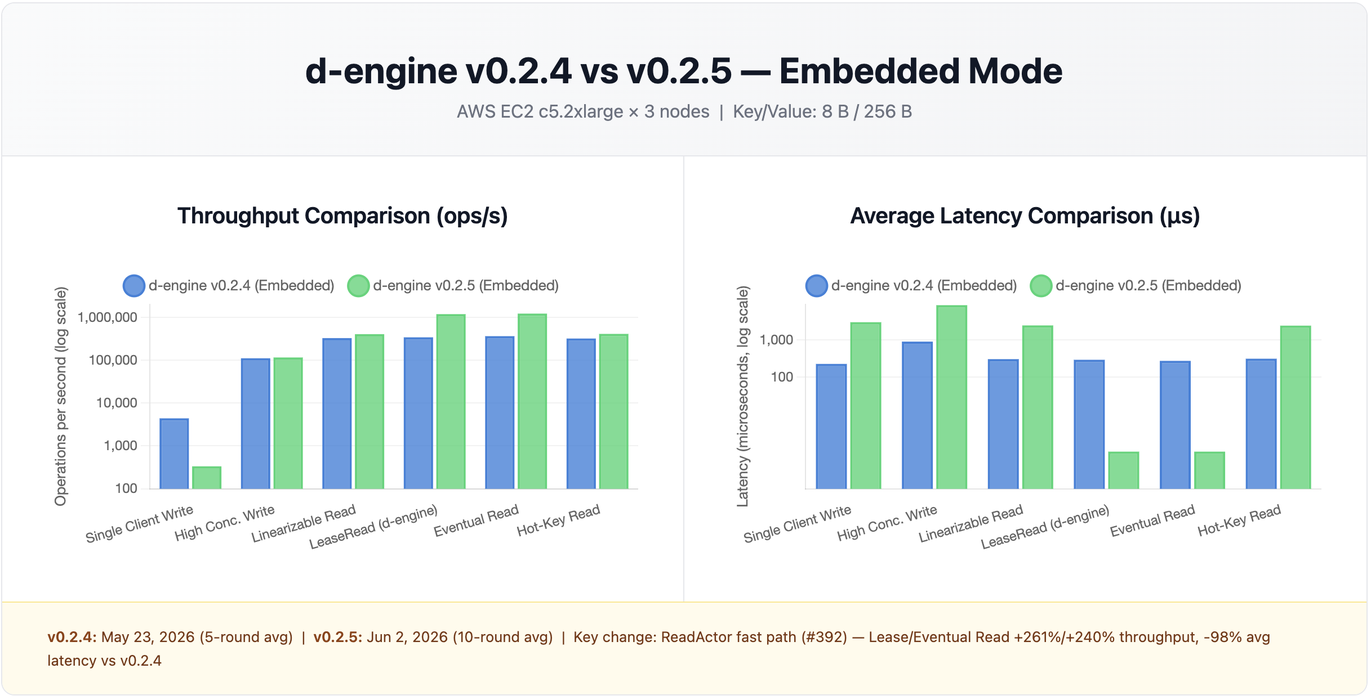
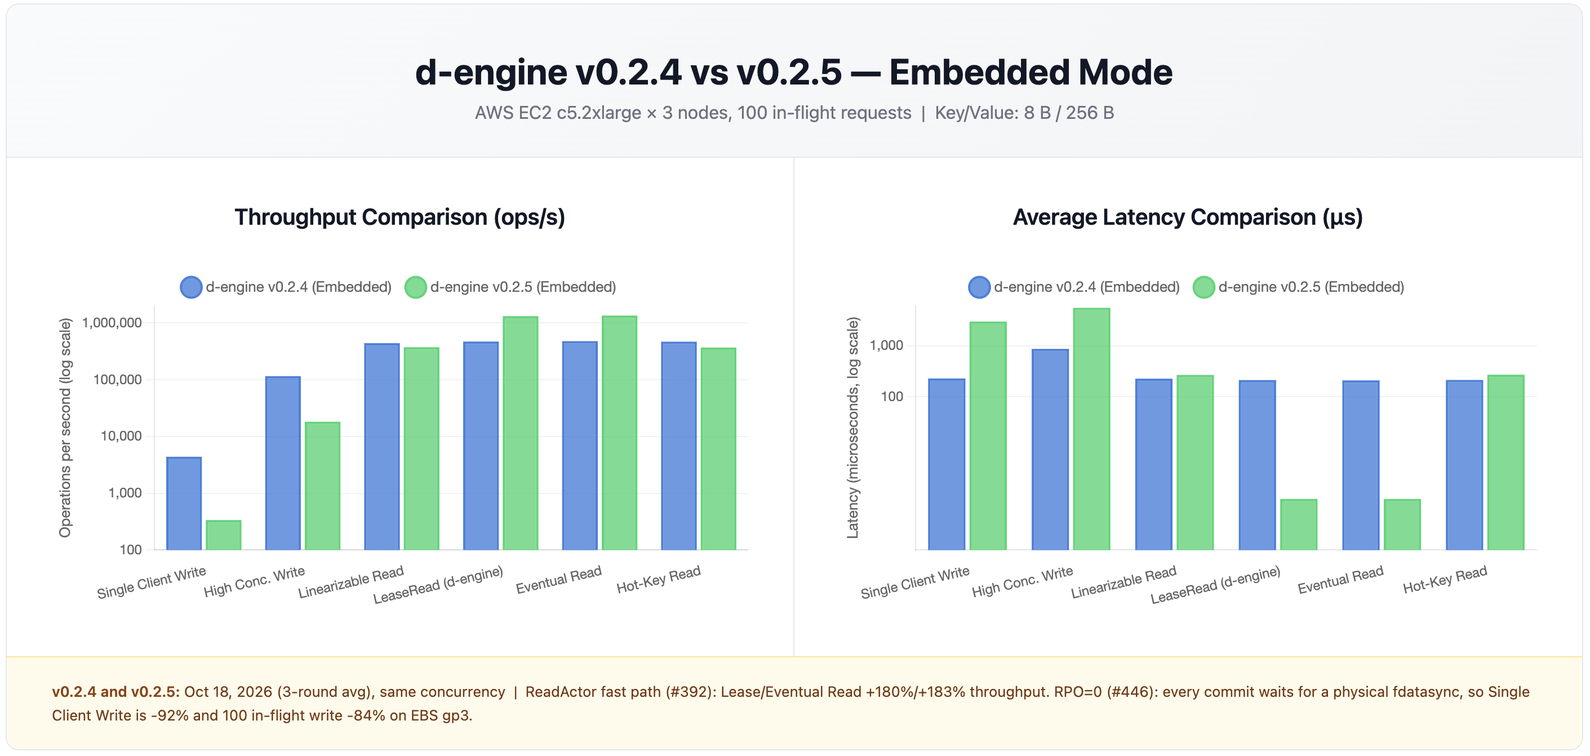
docs #460: Rewrite v0.2.5 benchmark report
Recompare v0.2.4 and v0.2.5 at the same concurrency and add an
etcd v3.7.2 comparison on identical AWS nodes. Record the per-commit
fdatasync cost that motivates the preallocated-segment spike.

diff --git a/benches/reports/v0.2.5/bench_report_v0.2.5.md b/benches/reports/v0.2.5/bench_report_v0.2.5.md
@@ -1,109 +1,88 @@
 # d-engine v0.2.5 Benchmark Report
 
-**Test Environments**:
+**Date**: October 18, 2026 | **Platform**: AWS us-east-1, 3 x c5.2xlarge nodes + 1 x c5.4xlarge client, 50 GB gp3 root volume (3,000 IOPS, 125 MB/s) | 3-round means | 8 B keys, 256 B values
 
-- **AWS**: EC2 c5.2xlarge (8 vCPUs, 16GB RAM, 50GB SSD) × 3 nodes
-- **Key/Value**: 8 bytes / 256 bytes
+Details: [`bench_report_v0.2.5_environment.md`](bench_report_v0.2.5_environment.md) (exact setup, commands, configuration) and [`bench_report_v0.2.5_details.md`](bench_report_v0.2.5_details.md) (every number, spreads, p99).
 
----
+> This report replaces the September 26, 2026 draft. That draft compared v0.2.4 at 100 clients with v0.2.5 at 1,000 clients, and compared d-engine with etcd 3.2.0 numbers measured on Google Cloud in 2017. Its latency and "vs etcd" conclusions did not hold and are withdrawn.
 
-![d-engine v0.2.5 vs v0.2.4 Embedded Mode](d-engine_v0.2.5_vs_v0.2.4_embedded_mode.png)
+## Summary
 
-![d-engine v0.2.5 vs v0.2.4 Standalone Mode](d-engine_v0.2.5_vs_v0.2.4_standalone_mode.png)
+1. **v0.2.5 makes every commit wait for a physical `fdatasync` (RPO=0, #446), and on AWS EBS that costs one disk sync per commit.** At the same concurrency, single-client write falls from 4,393 to 337 ops/s (avg latency 0.228 to 2.962 ms) and 100-in-flight embedded write from 115,641 to 18,198 ops/s (0.864 to 5.494 ms). The added latency is close to one append `fdatasync` measured with fio on the same volume type (2.71 ms): 0.228 + 2.71 = 2.94 ms against 2.96 ms measured.
+2. **Reads are mostly unaffected or faster.** In embedded mode lease and eventual reads are 2.8x faster (ReadActor, #392); in standalone mode they gain 14.5% and 6.4%. Linearizable read is 15% lower in embedded mode and 3.3% lower in standalone mode (within noise; the v0.2.4 value is one round).
+3. **Against etcd v3.7.2 on the same AWS nodes (standalone mode), d-engine is ahead at concurrency and behind with one client.** 200 in-flight writes: 32,068 vs 17,143 ops/s (1.87x). Single-client write: 312 vs 605 ops/s (d-engine at 0.52x). Linearizable read at 200 in-flight: 0.91x; eventual read against etcd's serializable read: 1.48x. In embedded mode (in-process calls, no network hop) at 100 in-flight: write 1.81x, linearizable read 5.83x, eventual read 9.08x; single-client write is again behind, at 0.56x.
+4. **etcd's single-client write is faster because its WAL sync is cheaper: 1.05 ms per sync in etcd's own metrics, against about 2.7 ms for an appending write on this volume.** fio shows a preallocated overwrite costs 1.29 ms on average against 2.72 ms for an append, with about half the device writes per sync. Whether RocksDB's WAL behaves like the append case is a hypothesis we have not tested yet (see Limitations).
+5. **The cost depends on the disk.** On a local RAM disk (fsync about 0.05 ms) the same change adds only 35% to write latency. Numbers from RAM disks must not be used to judge the cost on EBS.
 
-![d-engine v0.2.5 vs etcd 3.2.0](d-engine_comparison_v0.2.5.png)
+![d-engine v0.2.4 vs v0.2.5, Embedded Mode, 100 in-flight](d-engine_v0.2.5_vs_v0.2.4_embedded_mode.png)
 
-## AWS 3-Node Cluster: d-engine v0.2.5 vs v0.2.4 / etcd 3.2.0
+![d-engine v0.2.4 vs v0.2.5, Standalone Mode, 200 in-flight](d-engine_v0.2.5_vs_v0.2.4_standalone_mode.png)
 
-**Hardware**: AWS EC2 c5.2xlarge (8 vCPUs, 16GB RAM, 50GB SSD) × 3 nodes
-**Date**: September 26, 2026 | 3-round average | Key/Value: 8 bytes / 256 bytes
-**Embedded mode concurrency**: `--clients 1000` (previously omitted from the AWS harness — see Benchmark Configuration note below)
-**etcd reference**: Official etcd benchmark (GCE, 8 vCPUs + 16GB + SSD × 3 nodes, etcd 3.2.0)²
+![d-engine v0.2.5 (Embedded) vs etcd v3.7.2, 100 in-flight](d-engine_comparison_v0.2.5.png)
 
-> Updated 2026-09-26: this section now reflects v0.2.5 **with #446 merged**
-> (quorum commit gated on physical fsync — durable_index only advances after
-> fdatasync, per ADR-038 Level 3 / RPO=0). The June 2, 2026 numbers previously
-> here predate #446 and measured #392 (ReadActor) alone; #446 changes write-path
-> latency substantially and is reflected below.
+Charts (log scale, same data as Sections 1 and 2): v0.2.4 vs v0.2.5 in embedded mode at 100 in-flight; the same in standalone mode at 200 in-flight; d-engine v0.2.5 embedded against etcd v3.7.2 at 100 in-flight. There is no chart for standalone against etcd; that pair is in the Section 2 table.
 
-### Embedded Mode: v0.2.5 vs v0.2.4 / etcd 3.2.0
+## 1. v0.2.5 vs v0.2.4, same concurrency
 
-| **Scenario**        | **Metric**  | **v0.2.4 (AWS)** | **v0.2.5 (AWS)** | **Δ vs v0.2.4** | **etcd 3.2.0²** | **Δ vs etcd**  |
-| ------------------- | ----------- | ---------------- | ---------------- | --------------- | --------------- | -------------- |
-| Single Client Write | Throughput  | 4,398 ops/s      | 334 ops/s        | **-92.4%** ⚠   | 583 ops/s       | -42.8% ⚠      |
-|                     | Avg Latency | 0.227 ms         | 2.994 ms         | **+1219%** ⚠   | 1.6 ms          | +87.1% ⚠      |
-|                     | p99 Latency | 0.316 ms         | 3.154 ms         | **+898%** ⚠    | —               | —              |
-| High Conc. Write    | Throughput  | 110,798 ops/s    | 115,648 ops/s    | +4.4% →         | 44,341 ops/s    | **+2.6x** ✅   |
-|                     | Avg Latency | 0.902 ms         | 8.586 ms         | **+852%** ⚠    | 22.0 ms         | -61.0% ✅      |
-|                     | p99 Latency | 1.063 ms         | 12.012 ms        | **+1030%** ⚠   | —               | —              |
-| Linearizable Read   | Throughput  | 327,355 ops/s    | 404,684 ops/s    | +23.6% ✅       | 141,578 ops/s   | **+2.9x** ✅   |
-|                     | Avg Latency | 0.305 ms         | 2.454 ms         | **+705%** ⚠    | 5.5 ms          | -55.4% ✅      |
-|                     | p99 Latency | 0.374 ms         | 4.378 ms         | **+1071%** ⚠   | —               | —              |
-| Lease Read          | Throughput  | 341,254 ops/s    | 1,186,318 ops/s  | **+247.7%** ✅  | —³              | —              |
-|                     | Avg Latency | 0.293 ms         | 0.001 ms         | **-99.7%** ✅   | —               | —              |
-|                     | p99 Latency | 0.367 ms         | 0.002 ms         | **-99.5%** ✅   | —               | —              |
-| Eventual Read       | Throughput  | 363,407 ops/s    | 1,220,515 ops/s  | **+235.9%** ✅  | 185,758 ops/s   | **+6.6x** ✅   |
-|                     | Avg Latency | 0.274 ms         | 0.001 ms         | **-99.6%** ✅   | 2.2 ms          | **-99.95%** ✅ |
-|                     | p99 Latency | 0.343 ms         | 0.002 ms         | **-99.4%** ✅   | —               | —              |
-| Hot-Key (10 keys)   | Throughput  | 319,957 ops/s    | 410,173 ops/s    | +28.2% ✅       | —³              | —              |
-|                     | Avg Latency | 0.313 ms         | 2.421 ms         | **+674%** ⚠    | —               | —              |
-|                     | p99 Latency | 0.360 ms         | 4.858 ms         | **+1249%** ⚠   | —               | —              |
+Embedded mode, 100 in-flight requests (single client: 1). Cells are ops/s (average latency).
 
-**Key Findings**:
+| Scenario               | v0.2.4             | v0.2.5               | Throughput |
+| ---------------------- | ------------------ | -------------------- | ---------- |
+| Single client write    | 4,393 (0.228 ms)   | 337 (2.962 ms)       | -92.3%     |
+| High concurrency write | 115,641 (0.864 ms) | 18,198 (5.494 ms)    | -84.3%     |
+| Linearizable read      | 441,087 (0.226 ms) | 373,820 (0.267 ms)   | -15.3%     |
+| Lease read             | 470,786 (0.212 ms) | 1,319,390 (0.001 ms) | +180.3%    |
+| Eventual read          | 478,101 (0.209 ms) | 1,350,684 (0.001 ms) | +182.5%    |
+| Hot-key read (10 keys) | 467,864 (0.213 ms) | 369,349 (0.270 ms)   | -21.1%     |
 
-- **Single Client Write is the clearest #446 signal, and it's a regression**: throughput -92.4%, avg latency 0.227ms → 2.994ms (13x). No concurrency to amortize the cost — every request pays the full quorum-fsync round trip directly. d-engine's SC Write is now _slower_ than etcd's reference number (-42.8% throughput), reversing the previous +7.6x lead.
-- **Concurrent write/read throughput holds up (HC Write +4.4%, Lin Read +23.6%, Hot-Key +28.2%)** — with enough in-flight requests, individual fsync/replication latency overlaps instead of stacking, so aggregate throughput survives. But **every scenario's avg/p99 latency is 7-13x worse than v0.2.4**, including reads that don't touch fsync (Hot-Key avg +674%) — consistent with the write path now serializing behind real fsync+quorum-ack round trips that the old `MemFirst` config never paid.
-- **Lease/Eventual Read remain #392's win, untouched by #446** (+248%/+236% vs v0.2.4, both are pure in-memory reads with no Raft RPO=0 gating).
-- **This is a much larger cost than #446's own loopback A/B measurements** (`tickets/milestones/v0.2.5/RESULTS-main-vs-446.md`: +9.9% `propose_to_apply`, -2.1% throughput). AWS's EBS gp3 is network-attached storage — every fsync is a real network round trip, unlike loopback disk I/O. Confirms the loopback numbers understate #446's real-world cost by roughly an order of magnitude.
+Standalone mode, 200 in-flight (single client: 1). Starred cells use the one clean round of v0.2.4 (the cluster was not ready in rounds 1 and 2, so they logged timeouts).
 
----
+| Scenario               | v0.2.4              | v0.2.5             | Throughput |
+| ---------------------- | ------------------- | ------------------ | ---------- |
+| Single client write    | 2,042 (0.494 ms)    | 312 (3.204 ms)     | -84.7%     |
+| High concurrency write | 63,308* (3.155 ms)  | 32,068 (6.228 ms)  | -49.3%     |
+| Linearizable read      | 85,018* (2.349 ms)  | 82,215 (2.432 ms)  | -3.3%      |
+| Lease read             | 83,181 (2.403 ms)   | 95,219 (2.099 ms)  | +14.5%     |
+| Eventual read          | 204,337 (0.975 ms)  | 217,464 (0.916 ms) | +6.4%      |
+| Hot-key read (10 keys) | 104,149* (1.917 ms) | 96,553 (2.068 ms)  | -7.3%      |
 
-### Standalone Mode: v0.2.5 vs v0.2.4 / etcd 3.2.0
+## 2. d-engine v0.2.5 vs etcd v3.7.2 on the same AWS nodes
 
-| **Scenario**        | **Metric**  | **v0.2.4 (AWS)** | **v0.2.5 (AWS)** | **Δ vs v0.2.4** | **etcd 3.2.0²** | **Δ vs etcd** |
-| ------------------- | ----------- | ---------------- | ---------------- | --------------- | --------------- | ------------- |
-| Single Client Write | Throughput  | 2,305 ops/s      | 302 ops/s        | **-86.9%** ⚠   | 583 ops/s       | -48.2% ⚠     |
-|                     | Avg Latency | 0.433 ms         | 3.316 ms         | **+666%** ⚠    | 1.6 ms          | +107.3% ⚠    |
-|                     | p99 Latency | 0.567 ms         | 3.513 ms         | **+520%** ⚠    | —               | —             |
-| High Conc. Write    | Throughput  | 59,687 ops/s     | 70,395 ops/s     | +17.9% ✅       | 44,341 ops/s    | +58.8% ✅     |
-|                     | Avg Latency | 3.346 ms         | 14.137 ms        | **+323%** ⚠    | 22.0 ms         | -35.7% ✅     |
-|                     | p99 Latency | 7.106 ms         | 20.943 ms        | **+195%** ⚠    | —               | —             |
-| Linearizable Read   | Throughput  | 77,907 ops/s     | 89,218 ops/s     | +14.5% ✅       | 141,578 ops/s   | -37.0% ⚠     |
-|                     | Avg Latency | 2.563 ms         | 11.145 ms        | **+335%** ⚠    | 5.5 ms          | +102.6% ⚠    |
-|                     | p99 Latency | 6.308 ms         | 22.922 ms        | **+263%** ⚠    | —               | —             |
-| Lease Read          | Throughput  | 76,144 ops/s     | 99,699 ops/s     | **+30.9%** ✅   | —³              | —             |
-|                     | Avg Latency | 2.624 ms         | 9.972 ms         | **+280%** ⚠    | —               | —             |
-|                     | p99 Latency | 6.130 ms         | 22.058 ms        | **+260%** ⚠    | —               | —             |
-| Eventual Read       | Throughput  | 170,000 ops/s    | 243,775 ops/s    | **+43.4%** ✅   | 185,758 ops/s   | +31.2% ✅     |
-|                     | Avg Latency | 1.171 ms         | 4.044 ms         | **+245%** ⚠    | 2.2 ms          | +83.8% ⚠     |
-|                     | p99 Latency | 2.245 ms         | 9.087 ms         | **+305%** ⚠    | —               | —             |
-| Hot-Key (10 keys)   | Throughput  | 90,609 ops/s     | 104,701 ops/s    | +15.6% ✅       | —³              | —             |
-|                     | Avg Latency | 2.203 ms         | 9.493 ms         | **+331%** ⚠    | —               | —             |
-|                     | p99 Latency | 6.127 ms         | 19.060 ms        | **+211%** ⚠    | —               | —             |
+etcd ran in a separate session on new instances of the same shape, three times from a freshly wiped cluster, with etcd's documented `benchmark` commands (leader address instead of the removed `--target-leader`). Both d-engine modes are compared, because d-engine is used both ways. Standalone is the like-for-like pair: etcd is also reached through a network client.
 
-**Key Findings**:
+**Standalone** (200 in-flight; single client: 1)
 
-- **Same pattern as Embedded, more pronounced**: SC Write throughput -86.9%, avg latency 0.433ms → 3.316ms. Standalone adds real gRPC network RTT on top of the same fsync cost, so it's the worst-case number.
-- **Concurrent scenarios (HC Write, Lin Read, Lease/Eventual Read, Hot-Key) all gain throughput (+15-43%)** — likely #392 ReadActor + other carried-over improvements outweighing #446's per-op cost once enough concurrency hides it — **but every one of them has 2-4x worse avg/p99 latency**. Throughput alone is not the full picture for this release; latency is where #446's cost is visible everywhere.
-- **vs etcd**: d-engine has flipped from beating etcd on Single Client Write (+3.6x in v0.2.4) to losing to it (-48.2%). Linearizable Read is now worse than etcd on both throughput _and_ latency (previously only throughput was behind). This scenario deserves explicit sign-off before shipping v0.2.5 — RPO=0 is a deliberate trade-off (see ADR-038), but the "vs etcd" story materially changes.
+| Case                                                | etcd v3.7.2                         | d-engine v0.2.5 standalone           | d-engine / etcd |
+| --------------------------------------------------- | ----------------------------------- | ------------------------------------ | --------------- |
+| Write, 1 in-flight                                  | 605 ops/s, 1.65 ms, p99 5.07 ms     | 312 ops/s, 3.20 ms, p99 3.40 ms      | 0.52x           |
+| Write, 200 in-flight                                | 17,143 ops/s, 11.7 ms, p99 19.7 ms  | 32,068 ops/s, 6.23 ms, p99 7.43 ms   | 1.87x           |
+| Linearizable read, 200                              | 90,569 ops/s, 2.20 ms, p99 6.03 ms  | 82,215 ops/s, 2.43 ms, p99 4.69 ms   | 0.91x           |
+| Serializable (etcd) / eventual (d-engine) read, 200 | 147,426 ops/s, 1.23 ms, p99 6.40 ms | 217,464 ops/s, 0.916 ms, p99 1.71 ms | 1.48x           |
 
-² etcd data sourced from [etcd official benchmark documentation](https://etcd.io/docs/v3.6/op-guide/performance/), tested on GCE infrastructure. Different cloud platform; results are for reference only.
-³ etcd does not have an equivalent mode.
+**Embedded** (100 in-flight; single client: 1). The embedded bench ran at 100 in-flight, so etcd's 100 in-flight rows are the matched ones.
 
----
+| Case                                                | etcd v3.7.2                          | d-engine v0.2.5 embedded                | d-engine / etcd |
+| --------------------------------------------------- | ------------------------------------ | --------------------------------------- | --------------- |
+| Write, 1 in-flight                                  | 605 ops/s, 1.65 ms, p99 5.07 ms      | 337 ops/s, 2.96 ms, p99 3.15 ms         | 0.56x           |
+| Write, 100 in-flight                                | 10,064 ops/s, 9.93 ms, p99 17.0 ms   | 18,198 ops/s, 5.49 ms, p99 6.20 ms      | 1.81x           |
+| Linearizable read, 100                              | 64,071 ops/s, 1.57 ms, p99 3.60 ms   | 373,820 ops/s, 0.267 ms, p99 0.329 ms   | 5.83x           |
+| Serializable (etcd) / eventual (d-engine) read, 100 | 148,709 ops/s, 0.633 ms, p99 3.60 ms | 1,350,684 ops/s, 0.001 ms, p99 0.002 ms | 9.08x           |
 
-<!-- Benchmark Configuration section update: -->
+An embedded call pays no serialization and no network, so the read ratios measure that, not only the engine. The single-client write is the case where the network matters least (both sides wait for the disk sync), and there d-engine is behind etcd in both modes.
 
-```toml
-[raft]
-read_actor_channel_capacity = 10240
-read_actor_max_drain = 2000
+etcd's WAL `fdatasync` averaged 1.05 ms at 1 in-flight, 2.16 ms at 100, 2.37 ms at 200 and 3.24 ms at 1,000. Its other cases (1,000 in-flight, writes to all members, single-client reads) are in the details file. d-engine's lease read has no etcd equivalent (1,319,390 ops/s embedded, 95,219 standalone).
 
-[raft.persistence]
-flush_policy = { Batch = { idle_flush_interval_ms = 1000 } }
+## Limitations
 
-[raft.batching]
-max_batch_size = 200
-```
+- Three rounds per case on one set of instances; d-engine (set A) and etcd (set B) ran on different instances of the same shape. Treat ratios as indicative, roughly plus or minus 20%.
+- v0.2.4 standalone write, linearizable read and hot-key use a single clean round. v0.2.4 embedded single-client write varies 17.7% between rounds.
+- d-engine was not run on AWS at 1,000 in-flight, nor for single-client reads, so etcd's 1,000 in-flight results (in the details file) have no d-engine pair. etcd's reads fetch one key and last only a second or two; d-engine's read benchmark reads many keys.
+- The fsync explanation in point 4 is a hypothesis. d-engine's raft log is a RocksDB WAL; its configuration does not set `recycle_log_file_num` and leaves WAL preallocation at the defaults. We have not measured how RocksDB writes the WAL. The two-mode fio result (overwrite is bimodal: about 0.9 ms or 2.7 ms) is unexplained.
+- Single AZ, no placement group, gp3 only. Other volume types (io2, local NVMe) were not measured.
 
-Embedded-bench invocation: `--clients 1000` (AWS harness previously omitted this flag; Single Client Write always used `clients=1` regardless of this setting).
+## Corrections to the September 26 draft
+
+- Latency changes of "+852%" and "7 to 13x worse" mixed 100 and 1,000 in-flight requests. At equal concurrency the embedded write is 6.4x slower, not 10x.
+- Standalone "vs etcd" columns used etcd 3.2.0 on Google Cloud (2017, disk undocumented) and are replaced by measurements on the same AWS nodes.
+- The `flush_policy` and `read_actor_*` configuration snippet is gone: v0.2.5 has no persistence policy, and the actual settings are in the environment file.
+- The comparison charts in this directory were redrawn from the October 18 measurements; the September 26 versions are gone.

diff --git a/benches/reports/v0.2.5/bench_report_v0.2.5_details.md b/benches/reports/v0.2.5/bench_report_v0.2.5_details.md
@@ -1,0 +1,76 @@
+# d-engine v0.2.5 Benchmark: Full Results
+
+Companion to `bench_report_v0.2.5.md`. Environment: `bench_report_v0.2.5_environment.md`.
+All values are 3-round means unless marked. Spread = (max - min) / mean between rounds.
+
+## 1. Embedded, 100 in-flight (instance set A)
+
+| Scenario | v0.2.4 ops/s | avg / p99 ms | v0.2.5 ops/s | avg / p99 ms | Throughput change |
+|---|---|---|---|---|---|
+| Single client write (1 in-flight) | 4,393 (spread 17.7%) | 0.228 / 0.305 | 337 (0.5%) | 2.962 / 3.153 | -92.3% |
+| High concurrency write | 115,641 (5.4%) | 0.864 / 1.064 | 18,198 (1.1%) | 5.494 / 6.203 | -84.3% |
+| Linearizable read | 441,087 (5.0%) | 0.226 / 0.269 | 373,820 (0.3%) | 0.267 / 0.329 | -15.3% |
+| Lease read | 470,786 (10.3%) | 0.212 / 0.259 | 1,319,390 (1.8%) | 0.001 / 0.002 | +180.3% |
+| Eventual read | 478,101 (12.8%) | 0.209 / 0.247 | 1,350,684 (1.7%) | 0.001 / 0.002 | +182.5% |
+| Hot-key read (10 keys) | 467,864 (2.7%) | 0.213 / 0.255 | 369,349 (5.6%) | 0.270 / 0.337 | -21.1% |
+
+Lease and eventual reads return in about a microsecond, so their in-flight count (throughput x latency) is
+about 1, not 100: the client side is the limit there. Every other row measured 100 (single client: 1).
+
+## 2. Standalone, 200 in-flight (instance set A)
+
+| Scenario | v0.2.4 ops/s | avg / p99 ms | v0.2.5 ops/s | avg / p99 ms | Throughput change |
+|---|---|---|---|---|---|
+| Single client write | 2,042 (23.7%) | 0.494 / 0.650 | 312 (1.2%) | 3.204 / 3.400 | -84.7% |
+| High concurrency write | 63,308 (round 3 only) | 3.155 / 4.727 | 32,068 (0.8%) | 6.228 / 7.428 | -49.3% |
+| Linearizable read | 85,018 (round 3 only) | 2.349 / 3.729 | 82,215 (8.3%) | 2.432 / 4.692 | -3.3% |
+| Lease read | 83,181 (7.4%) | 2.403 / 3.684 | 95,219 (7.1%) | 2.099 / 4.258 | +14.5% |
+| Eventual read | 204,337 (1.7%) | 0.975 / 1.723 | 217,464 (0.8%) | 0.916 / 1.714 | +6.4% |
+| Hot-key read (10 keys) | 104,149 (round 3 only) | 1.917 / 3.037 | 96,553 (2.3%) | 2.068 / 3.846 | -7.3% |
+
+"Round 3 only": in rounds 1 and 2 of v0.2.4 the cluster was not ready when the bench started and the
+client logged `ConnectionTimeout` / `DeadlineExceeded` (write: 5,488 and 16,076 ops/s; linearizable read and
+hot-key also affected). Their means are meaningless, so only the clean round is used and the spread is unknown.
+v0.2.5 had no errors in any round.
+
+## 3. etcd v3.7.2 (instance set B, three fresh-cluster runs)
+
+| Case | ops/s (spread) | avg ms | p99 ms | WAL fsync avg ms (members' range) |
+|---|---|---|---|---|
+| Write 1 in-flight | 605 (0.6%) | 1.654 | 5.07 | 1.05 (1.05 to 1.05) |
+| Write 100, leader | 10,064 (0.3%) | 9.933 | 16.97 | 2.16 (2.11 to 2.24) |
+| Write 200, leader | 17,143 (0.3%) | 11.667 | 19.67 | 2.37 (2.28 to 2.49) |
+| Write 1,000, leader | 40,011 (0.5%) | 24.867 | 43.23 | 3.24 (3.10 to 3.44) |
+| Write 1,000, all members | 42,405 (0.7%) | 23.433 | 44.47 | 3.45 (3.31 to 3.54) |
+| Linearizable read 1 / 100 / 200 / 1,000 | 1,624 / 64,071 / 90,569 / 150,109 | 0.616 / 1.567 / 2.200 / 6.267 | 0.80 / 3.60 / 6.03 / 25.03 | - |
+| Serializable read 1 / 100 / 200 / 1,000 | 4,217 / 148,709 / 147,426 / 202,464 | 0.237 / 0.633 / 1.233 / 4.300 | 0.40 / 3.60 / 6.40 / 21.27 | - |
+
+The 1 in-flight average is 1 / throughput (the tool prints 0.1 ms steps). Reads run only a second or two,
+so their measured in-flight count is below nominal: serializable 94 / 182 / 870 and linearizable 941 at
+nominal 100 / 200 / 1,000; this flatters etcd's read latency slightly.
+
+## 4. Matched comparison on AWS (d-engine / etcd)
+
+Latency columns are etcd / d-engine, so values above 1 favor d-engine. The d-engine runs are from set A and
+the etcd runs from set B (different instances of the same shape).
+
+| Pair | etcd ops/s | d-engine ops/s | Throughput x | Avg latency x | p99 x |
+|---|---|---|---|---|---|
+| Write, 1 in-flight vs standalone | 605 | 312 | 0.52 | 0.52 | 1.49 |
+| Write, 200 in-flight vs standalone | 17,143 | 32,068 | 1.87 | 1.87 | 2.65 |
+| Linearizable read, 200 vs standalone | 90,569 | 82,215 | 0.91 | 0.90 | 1.29 |
+| Serializable vs eventual read, 200 vs standalone | 147,426 | 217,464 | 1.48 | 1.35 | 3.73 |
+| Write, 1 in-flight vs embedded | 605 | 337 | 0.56 | 0.56 | 1.61 |
+| Write, 100 vs embedded | 10,064 | 18,198 | 1.81 | 1.81 | 2.74 |
+| Linearizable read, 100 vs embedded | 64,071 | 373,820 | 5.83 | 5.88 | 10.93 |
+| Serializable vs eventual read, 100 vs embedded | 148,709 | 1,350,684 | 9.08 | about 600 (0.633 ms vs 0.001 ms) | about 1,800 (3.60 ms vs 0.002 ms) |
+
+Embedded has no network hop (in-process calls), so its read rows show the cost of the network client as
+much as the engine. The latency ratio of the last row is not meaningful: embedded eventual reads return
+in about a microsecond, at the resolution of the measurement. d-engine was not run on AWS at 1 or 1,000
+in-flight for reads, nor at 200 in-flight in embedded mode, nor at 1,000 for writes, in this session.
+
+## 5. Not measured in this session
+
+d-engine on AWS at 1,000 in-flight and for single-client reads; etcd with v0.2.4 (it
+does not fsync every commit); a d-engine run with a different RocksDB WAL configuration.

diff --git a/benches/reports/v0.2.5/bench_report_v0.2.5_environment.md b/benches/reports/v0.2.5/bench_report_v0.2.5_environment.md
@@ -1,0 +1,75 @@
+# d-engine v0.2.5 Benchmark: Test Environment
+
+Companion to `bench_report_v0.2.5.md`. Everything here was measured on **October 18, 2026**.
+
+## 1. Instance sets
+
+Three sets of AWS instances were used, all created from the same Terraform configuration (same shapes),
+hours apart. A number is only comparable with another number from the same set, or with the caveat that
+the instances differ.
+
+| Set | Used for |
+|---|---|
+| A | d-engine v0.2.4 and v0.2.5 runs (v0.2.4 first, v0.2.5 about 12 minutes later) |
+| B | etcd v3.7.2 runs (three fresh-cluster runs) and the second fio calibration |
+| C | the first fio calibration and node-to-node ping |
+
+## 2. AWS shape
+
+| Item | Value |
+|---|---|
+| Region / zone | us-east-1, one availability zone, one subnet (10.0.1.0/24), no placement group |
+| Server nodes | 3 x c5.2xlarge (8 vCPU, 16 GiB) |
+| Client machine | 1 x c5.4xlarge (16 vCPU, 32 GiB), used by the standalone and etcd benches |
+| OS | Ubuntu 20.04 LTS (Canonical AMI), ext4 root filesystem |
+| Disk | 50 GB gp3 root volume, 3,000 IOPS, 125 MB/s. The data of every system under test is on this volume |
+| Network | security group allows all traffic between members; client to node RTT 0.11 to 0.15 ms (set B, ping averages); node to node 0.09 and 0.18 ms (set C, ping averages to two peers) |
+
+## 3. d-engine runs (set A)
+
+- v0.2.5 = `main` at `b5fce385`. v0.2.4 = tag `v0.2.4`. Both built on the instances with the release profile.
+- **Embedded**: `embedded-bench --mode local --batch --key-size 8 --value-size 256 --sequential-keys put`,
+  one process per node, the leader's output is used. 100 in-flight (v0.2.4's `--batch` hard-codes 100;
+  v0.2.5 gets `--clients 100`). The bench runtime has 2 worker threads on both versions (v0.2.4's bench was
+  patched to match v0.2.5's).
+- **Standalone**: `three-nodes-standalone` on each node, `standalone-bench` on the client with three
+  endpoints. `--conns 200 --clients 200` (v0.2.4 limits in-flight requests by `--conns`, v0.2.5 by `--clients`;
+  both are 200). Single-client write: `--conns 1 --clients 1`.
+- Payload: 8 B keys, 256 B values, sequential keys; hot-key uses 10 keys. 10,000 requests for the
+  single-client write, 100,000 for the others. 3 rounds; cluster restarted and data wiped before each round.
+- Configuration (same file serves both versions; each ignores keys it does not know):
+  `max_batch_size = 200`, snapshot off, `unified_db = false`, backpressure 10,000 writes / 50,000 reads,
+  election timeout 1,500 to 2,500 ms and lease 500 ms (standalone), ReadActor 2,048/1,024 (embedded) and
+  10,240/2,000 (standalone). Replication settings are left at their defaults.
+- **Persistence**: v0.2.4 `MemFirst` (asynchronous flush, 1,000 ms idle interval). v0.2.5 advances the durable
+  index only after `fdatasync` (RPO=0). The raft log is stored in RocksDB.
+
+## 4. etcd runs (set B)
+
+- etcd v3.7.2 official linux-amd64 binary, downloaded on the instances. Three members, one per node, data
+  directory on the root volume, default settings apart from the cluster flags.
+- The `benchmark` tool is not in the release package. It was built from the v3.7.2 source and
+  cross-compiled to a static linux/amd64 binary (Go 1.26.8), then run on the client machine.
+- Commands are etcd's documented ones, except that `--target-leader` no longer exists in v3.7.2, so the
+  leader's address is passed instead. 8 B keys, 256 B values, sequential keys. Reads fetch one key through
+  all three members.
+- Cases per run: writes at 1, 100, 200 and 1,000 in-flight to the leader and 1,000 in-flight to all
+  members; linearizable and serializable reads at 1, 100, 200 and 1,000 in-flight. 10,000 requests at 1
+  in-flight, 100,000 otherwise. `--conns` equals `--clients`, except at 1,000 in-flight (100 connections, as
+  in etcd's documentation).
+- Three runs, each on a freshly wiped cluster. WAL fsync averages come from the change of
+  `etcd_disk_wal_fsync_duration_seconds` before and after each case.
+
+## 5. Published etcd numbers (not used for any comparison here)
+
+etcd's documentation table comes from Google Cloud: 3 servers with 8 vCPU, 16 GB and a 50 GB SSD, a client with
+16 vCPU and 30 GB, Ubuntu 17.04, etcd 3.2.0, Go 1.8.3. The disk type is not stated. The cloud, disk, software
+version and age all differ from this report, so the earlier draft's comparison with those numbers was removed.
+
+## 6. Calibration and other runs
+
+- **fio** (`--ioengine=sync --fdatasync=1`, 1 KiB, iodepth 1, 20 s) on the same volume type: append write
+  2.710 ms (set C) and 2.718 ms (set B) average `fdatasync`; preallocated overwrite 1.288 ms (set B).
+  4 KiB overwrite 0.873 ms and 16 KiB overwrite 2.855 ms (set C).
+- **Local runs** (not in the tables here): Mac mini M2, three nodes on loopback, each on its own RAM disk, where
+  `fdatasync` costs about 0.05 ms. They show the RPO=0 cost when the disk is almost free.
